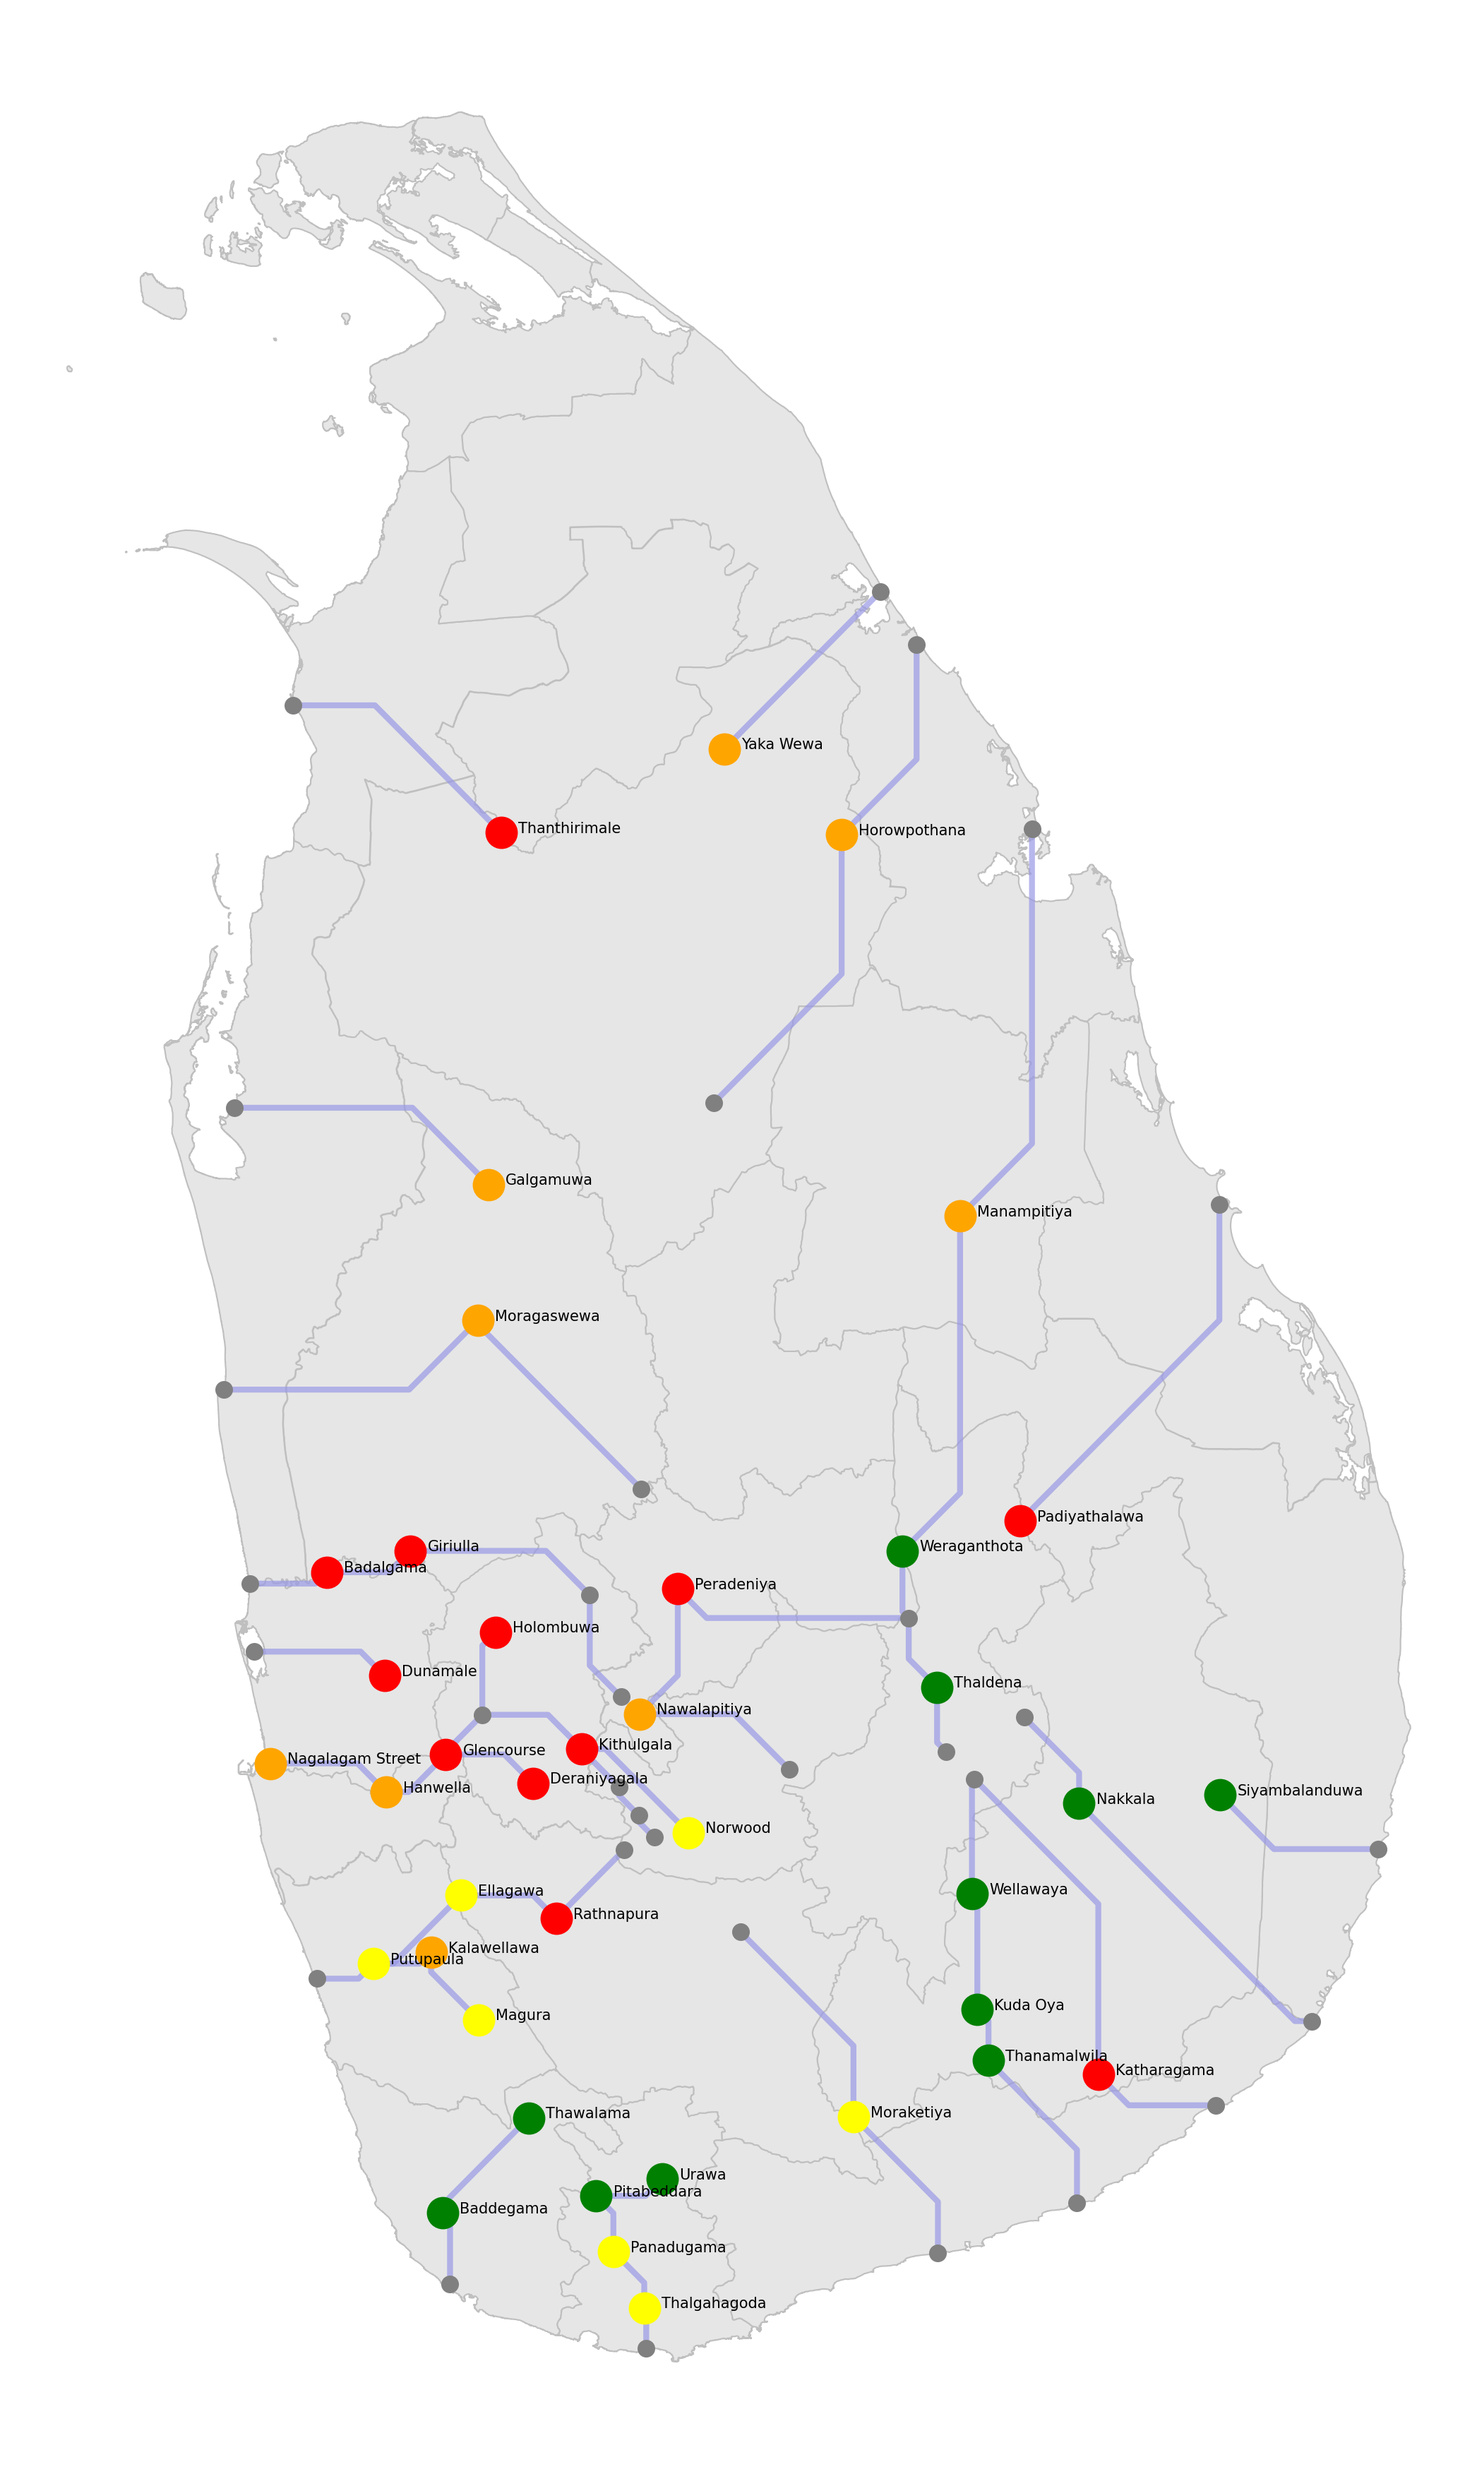
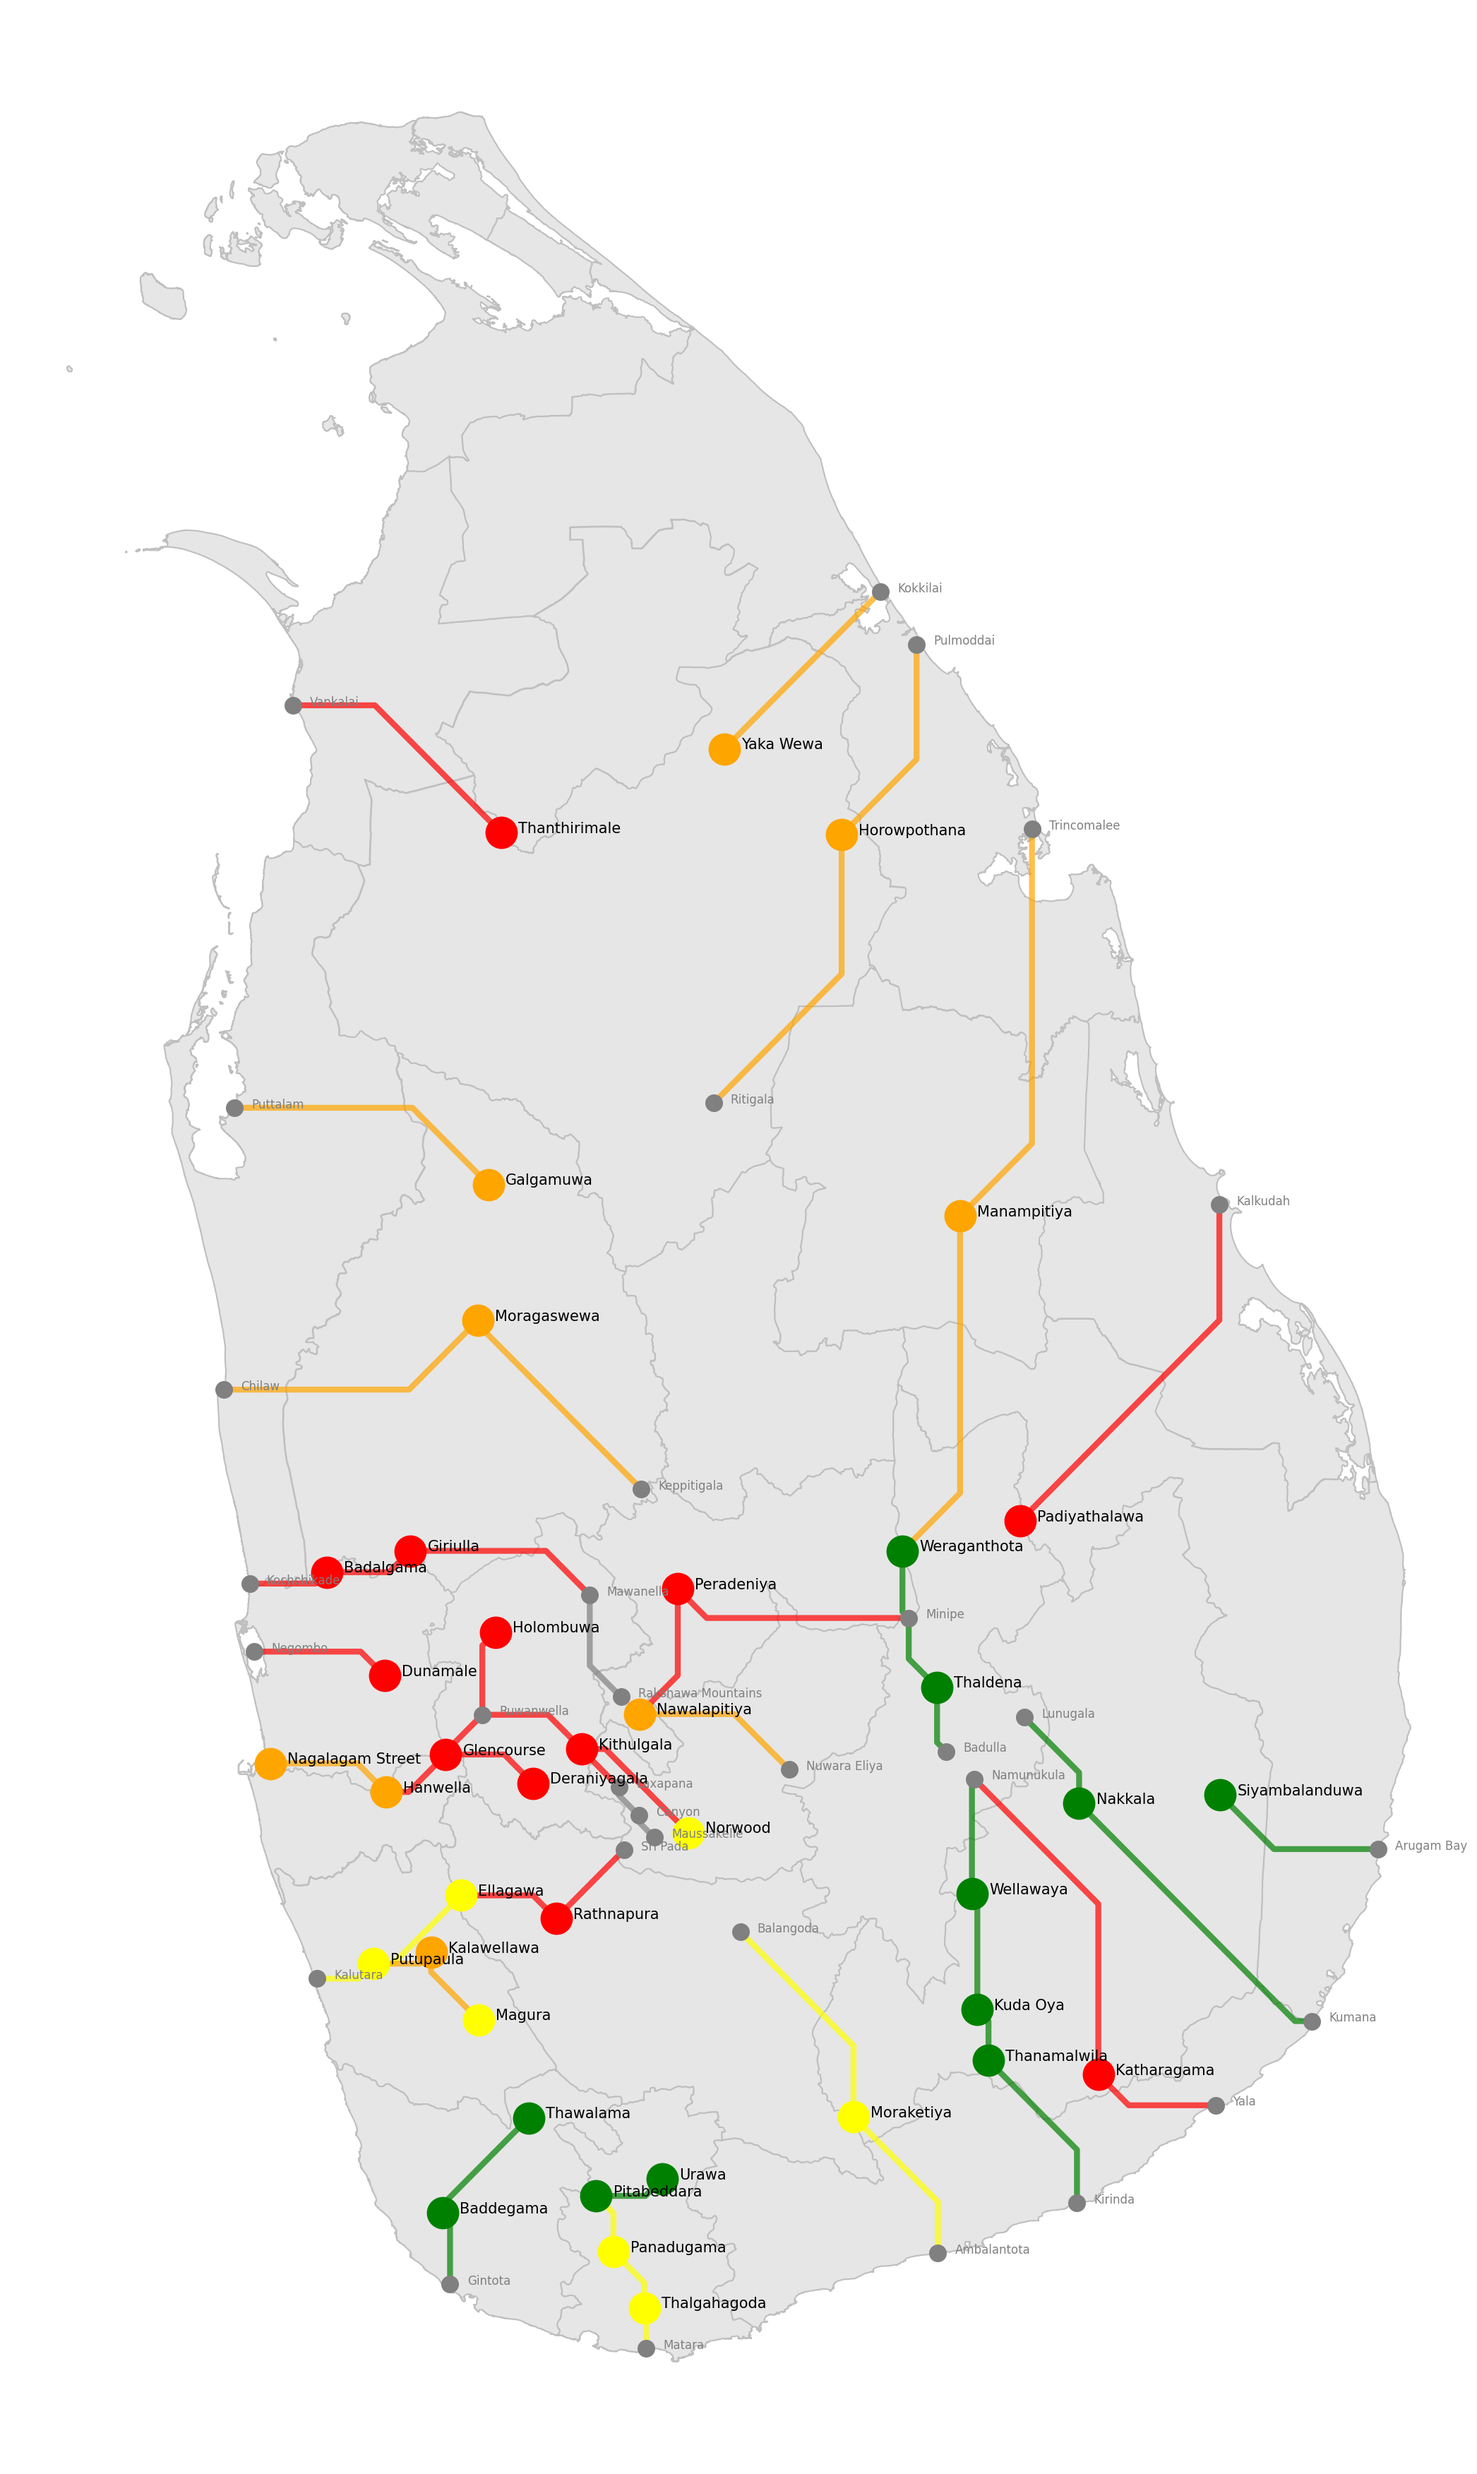
Enhance river visualization by integrating station water levels and updating color coding

diff --git a/src/lk_dmc/RiverWaterLevelDataTableMapMixin.py b/src/lk_dmc/RiverWaterLevelDataTableMapMixin.py
@@ -12,6 +12,13 @@ log = Log("RiverWaterLevelDataTableMapMixin")
 
 
 class RiverWaterLevelDataTableMapMixin:
+    LEVEL_TO_COLOR = {
+        0: "grey",
+        1: "green",
+        2: "yellow",
+        3: "orange",
+        4: "red",
+    }
 
     def __draw_map__(self, ax):
         district_ents = Ent.list_from_type(EntType.DISTRICT)
@@ -24,8 +31,17 @@ class RiverWaterLevelDataTableMapMixin:
                 linewidth=0.5,
             )
 
+    def get_station_to_level_map(self):
+        station_to_level = {}
+        for rwld in self.d_list:
+            station = rwld.gauging_station
+            level = self.__get_station_level__(rwld)
+            station_to_level[station.name] = level
+        return station_to_level
+
     def __draw_rivers__(self, ax):
         rivers = River.list_all()
+
         for river in rivers:
             locations = [
                 GaugingStation.from_name_safe(name)
@@ -33,9 +49,16 @@ class RiverWaterLevelDataTableMapMixin:
                 for name in river.location_names
             ]
             n_locations = len(locations)
+            station_to_level = self.get_station_to_level_map()
             for i in range(n_locations - 1):
                 loc1 = locations[i]
                 loc2 = locations[i + 1]
+
+                level1 = station_to_level.get(loc1.name, 0)
+                level2 = station_to_level.get(loc2.name, 0)
+                level_max = max(level1, level2)
+                color = self.LEVEL_TO_COLOR[level_max]
+
                 y1, x1 = loc1.lat_lng
                 y2, x2 = loc2.lat_lng
 
@@ -49,7 +72,7 @@ class RiverWaterLevelDataTableMapMixin:
                 ax.plot(
                     [x1, xmid, x2],
                     [y1, ymid, y2],
-                    color=(0.6, 0.6, 0.9),
+                    color=color,
                     linewidth=2,
                     alpha=0.7,
                 )
@@ -65,20 +88,33 @@ class RiverWaterLevelDataTableMapMixin:
                 markersize=5,
                 color="grey",
             )
+            ax.text(
+                lng + 0.03,
+                lat,
+                location.name,
+                fontsize=4,
+                color="grey",
+            )
+
+    def __get_station_level__(self, rwld):
+        station = rwld.gauging_station
+
+        if rwld.current_water_level >= station.major_flood_level:
+            return 4
+
+        elif rwld.current_water_level >= station.minor_flood_level:
+            return 3
+
+        elif rwld.current_water_level >= station.alert_level:
+            return 2
+
+        return 1
 
     def __draw_station__(self, ax, rwld):
         station = rwld.gauging_station
         lat, lng = station.lat_lng
-        color = "green"
-
-        if rwld.current_water_level >= station.major_flood_level:
-            color = "red"
-
-        elif rwld.current_water_level >= station.minor_flood_level:
-            color = "orange"
-
-        elif rwld.current_water_level >= station.alert_level:
-            color = "yellow"
+        level = self.__get_station_level__(rwld)
+        color = self.LEVEL_TO_COLOR[level]
 
         ax.plot(
             lng,
